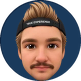
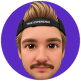
Use site purple for Pohlare badge instead of navy
Claude-Session: https://claude.ai/code/session_01LHKZh7diHh7Fdm4SHTypzm

diff --git a/src/App.css b/src/App.css
@@ -578,7 +578,7 @@ body {
   align-items: center;
   gap: 10px;
   padding: 5px 20px 5px 5px;
-  background: #0d2340;
+  background: #7339E6;
   border: 2px solid #776538;
   border-radius: 999px;
   text-decoration: none;
@@ -590,7 +590,7 @@ body {
   width: 40px;
   height: 40px;
   border-radius: 50%;
-  background: #1a3a5c;
+  background: #5a2bc2;
   display: block;
 }
 
@@ -601,7 +601,7 @@ body {
   line-height: 1.15;
 }
 
-.pohlare-badge-label { font-size: 11px; color: #9ea7b3; }
+.pohlare-badge-label { font-size: 11px; color: #ddd0fb; }
 
 .pohlare-badge-name {
   font-family: Georgia, 'Times New Roman', serif;
